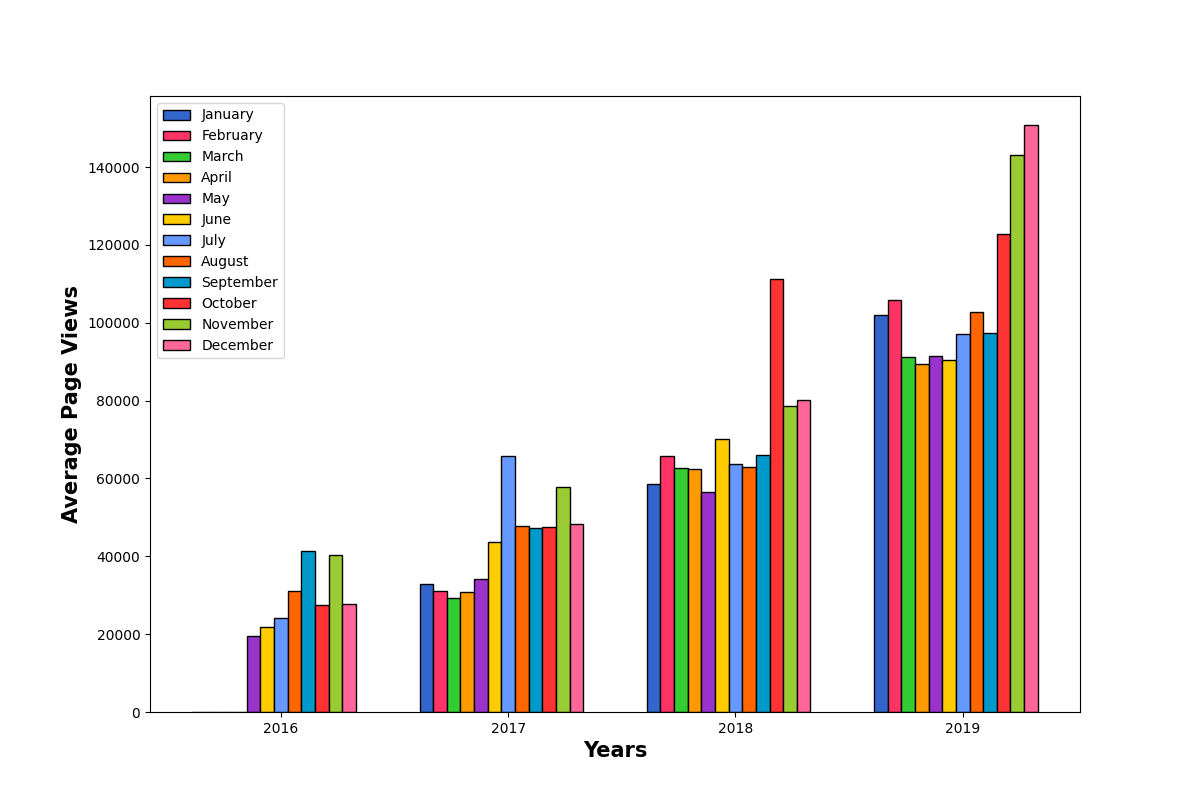
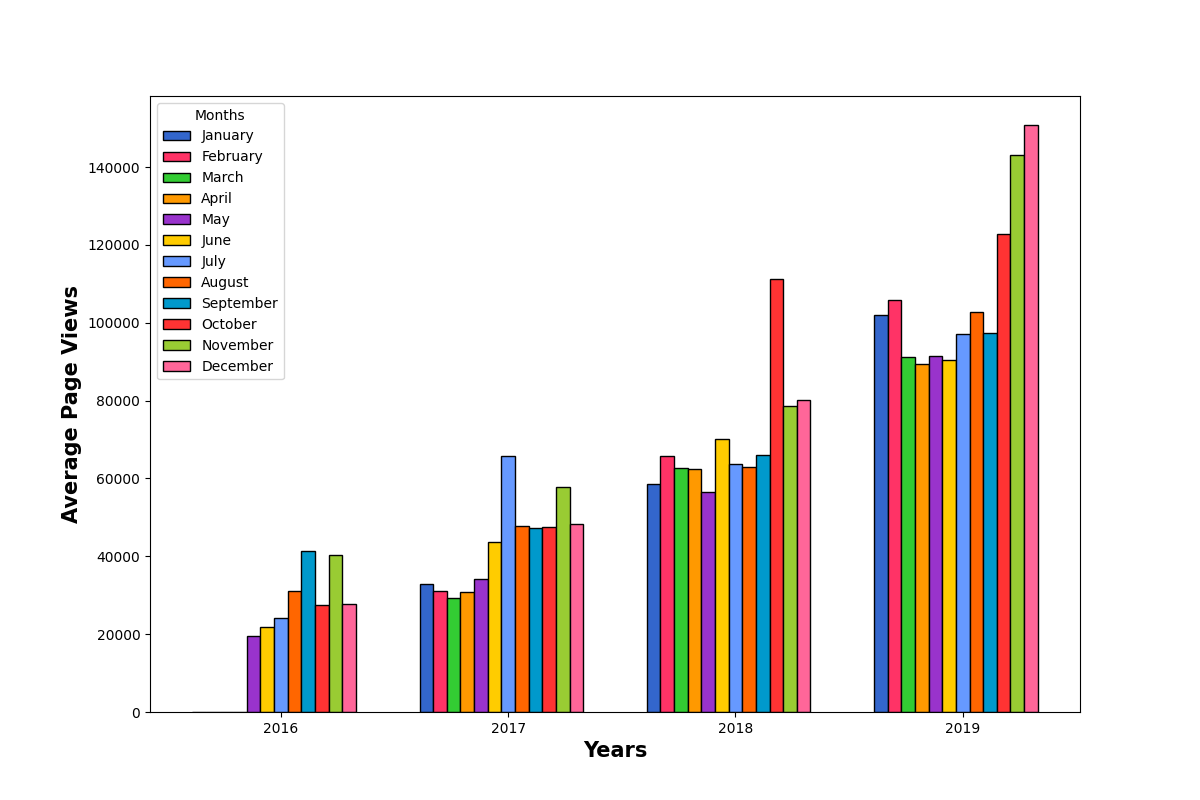
added a title to the legend in the bar chart

Changed region(s): [[0.1233, 0.125, 0.2467, 0.4688]]

diff --git a/time_series_visualizer.py b/time_series_visualizer.py
@@ -99,7 +99,8 @@ def draw_bar_plot():
     plt.ylabel('Average Page Views', fontweight ='bold', fontsize = 15) 
     plt.xticks([r + barWidth*6 for r in range(len(unique_years))], unique_years)
     
-    plt.legend()
+    legend = plt.legend()
+    legend.set_title('Months')
 
     fig = plt.gcf()
 
